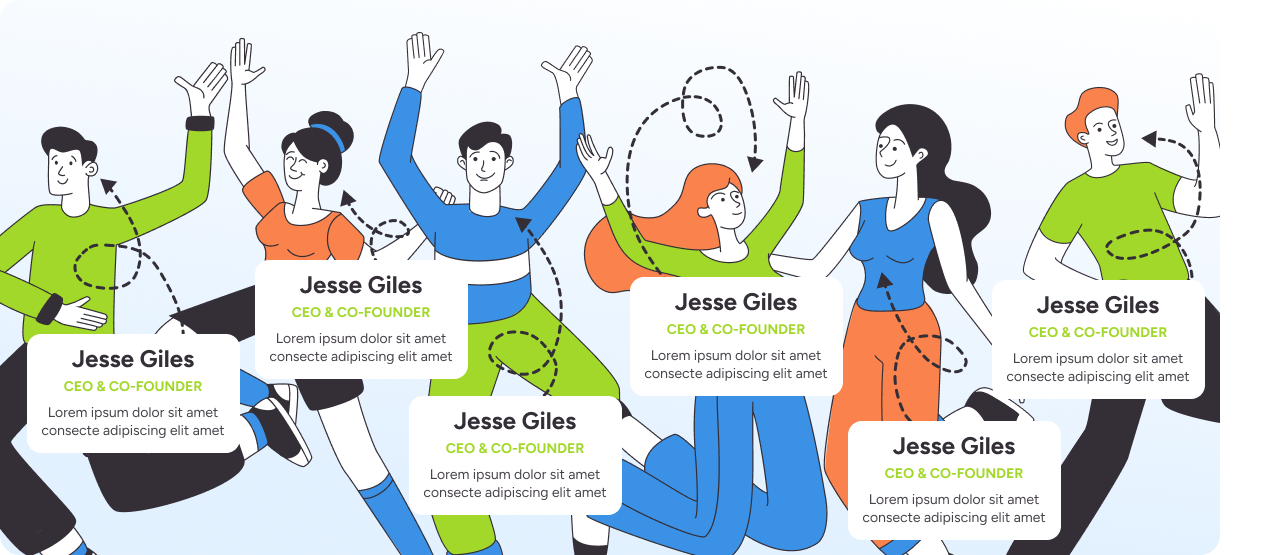
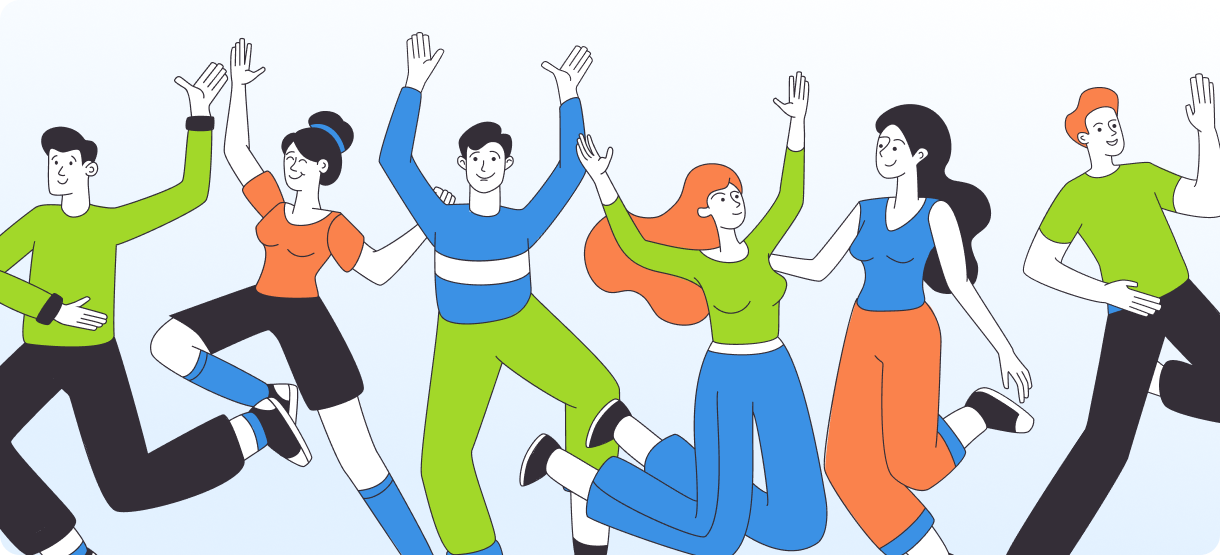
chore: slate class change

diff --git a/components/ui/dropdown-menu.tsx b/components/ui/dropdown-menu.tsx
@@ -27,7 +27,7 @@ const DropdownMenuSubTrigger = React.forwardRef<
   <DropdownMenuPrimitive.SubTrigger
     ref={ref}
     className={cn(
-      'flex cursor-default select-none items-center rounded-sm px-2 py-1.5 text-sm outline-none focus:bg-slate-100 data-[state=open]:bg-slate-100 dark:focus:bg-slate-800 dark:data-[state=open]:bg-slate-800',
+      'flex cursor-default select-none items-center rounded-sm px-2 py-1.5 text-sm outline-none focus:bg-slate-100 data-[state=open]:bg-slate-100 dark:focus:bg-dark dark:data-[state=open]:bg-dark',
       inset && 'pl-8',
       className
     )}
@@ -83,7 +83,7 @@ const DropdownMenuItem = React.forwardRef<
   <DropdownMenuPrimitive.Item
     ref={ref}
     className={cn(
-      'relative flex cursor-default select-none items-center rounded-sm px-2 py-1.5 text-sm outline-none transition-colors focus:bg-slate-100 focus:text-slate-900 data-[disabled]:pointer-events-none data-[disabled]:opacity-50 dark:focus:bg-slate-800 dark:focus:text-slate-50',
+      'relative flex cursor-default select-none items-center rounded-sm px-2 py-1.5 text-sm outline-none transition-colors focus:bg-slate-100 focus:text-dark data-[disabled]:pointer-events-none data-[disabled]:opacity-50 dark:focus:bg-dark dark:focus:text-slate-50',
       inset && 'pl-8',
       className
     )}
@@ -99,7 +99,7 @@ const DropdownMenuCheckboxItem = React.forwardRef<
   <DropdownMenuPrimitive.CheckboxItem
     ref={ref}
     className={cn(
-      'relative flex cursor-default select-none items-center rounded-sm py-1.5 pl-8 pr-2 text-sm outline-none transition-colors focus:bg-slate-100 focus:text-slate-900 data-[disabled]:pointer-events-none data-[disabled]:opacity-50 dark:focus:bg-slate-800 dark:focus:text-slate-50',
+      'relative flex cursor-default select-none items-center rounded-sm py-1.5 pl-8 pr-2 text-sm outline-none transition-colors focus:bg-slate-100 focus:text-dark data-[disabled]:pointer-events-none data-[disabled]:opacity-50 dark:focus:bg-dark dark:focus:text-slate-50',
       className
     )}
     checked={checked}
@@ -123,7 +123,7 @@ const DropdownMenuRadioItem = React.forwardRef<
   <DropdownMenuPrimitive.RadioItem
     ref={ref}
     className={cn(
-      'relative flex cursor-default select-none items-center rounded-sm py-1.5 pl-8 pr-2 text-sm outline-none transition-colors focus:bg-slate-100 focus:text-slate-900 data-[disabled]:pointer-events-none data-[disabled]:opacity-50 dark:focus:bg-slate-800 dark:focus:text-slate-50',
+      'relative flex cursor-default select-none items-center rounded-sm py-1.5 pl-8 pr-2 text-sm outline-none transition-colors focus:bg-slate-100 focus:text-dark data-[disabled]:pointer-events-none data-[disabled]:opacity-50 dark:focus:bg-dark dark:focus:text-slate-50',
       className
     )}
     {...props}
@@ -162,7 +162,7 @@ const DropdownMenuSeparator = React.forwardRef<
 >(({ className, ...props }, ref) => (
   <DropdownMenuPrimitive.Separator
     ref={ref}
-    className={cn('-mx-1 my-1 h-px bg-slate-100 dark:bg-slate-800', className)}
+    className={cn('-mx-1 my-1 h-px bg-slate-100 dark:bg-dark', className)}
     {...props}
   />
 ))

diff --git a/components/ui/calendar.tsx b/components/ui/calendar.tsx
@@ -36,23 +36,22 @@ function Calendar({
         table: 'w-full border-collapse space-y-1',
         head_row: 'flex',
         head_cell:
-          'text-slate-500 rounded-md w-9 font-normal text-[0.8rem] dark:text-slate-400',
+          'text-gray rounded-md w-9 font-normal text-[0.8rem] dark:text-dark/60',
         row: 'flex w-full mt-2',
-        cell: 'h-9 w-9 text-center text-sm p-0 relative [&:has([aria-selected].day-range-end)]:rounded-r-md [&:has([aria-selected].day-outside)]:bg-slate-100/50 [&:has([aria-selected])]:bg-slate-100 first:[&:has([aria-selected])]:rounded-l-md last:[&:has([aria-selected])]:rounded-r-md focus-within:relative focus-within:z-20 dark:[&:has([aria-selected].day-outside)]:bg-slate-800/50 dark:[&:has([aria-selected])]:bg-slate-800',
+        cell: 'h-9 w-9 text-center text-sm p-0 relative [&:has([aria-selected].day-range-end)]:rounded-r-md [&:has([aria-selected].day-outside)]:bg-slate-100/50 [&:has([aria-selected])]:bg-slate-100 first:[&:has([aria-selected])]:rounded-l-md last:[&:has([aria-selected])]:rounded-r-md focus-within:relative focus-within:z-20 dark:[&:has([aria-selected].day-outside)]:bg-dark/50 dark:[&:has([aria-selected])]:bg-dark',
         day: cn(
           buttonVariants({ variant: 'ghost' }),
           'h-9 w-9 p-0 font-normal aria-selected:opacity-100'
         ),
         day_range_end: 'day-range-end',
         day_selected:
-          'bg-slate-900 text-slate-50 hover:bg-slate-900 hover:text-slate-50 focus:bg-slate-900 focus:text-slate-50 dark:bg-slate-50 dark:text-slate-900 dark:hover:bg-slate-50 dark:hover:text-slate-900 dark:focus:bg-slate-50 dark:focus:text-slate-900',
-        day_today:
-          'bg-slate-100 text-slate-900 dark:bg-slate-800 dark:text-slate-50',
+          'bg-dark text-slate-50 hover:bg-dark hover:text-slate-50 focus:bg-dark focus:text-slate-50 dark:bg-slate-50 dark:text-dark dark:hover:bg-slate-50 dark:hover:text-dark dark:focus:bg-slate-50 dark:focus:text-dark',
+        day_today: 'bg-slate-100 text-dark dark:bg-dark dark:text-slate-50',
         day_outside:
-          'day-outside text-slate-500 opacity-50 aria-selected:bg-slate-100/50 aria-selected:text-slate-500 aria-selected:opacity-30 dark:text-slate-400 dark:aria-selected:bg-slate-800/50 dark:aria-selected:text-slate-400',
-        day_disabled: 'text-slate-500 opacity-50 dark:text-slate-400',
+          'day-outside text-gray opacity-50 aria-selected:bg-slate-100/50 aria-selected:text-gray aria-selected:opacity-30 dark:text-dark/60 dark:aria-selected:bg-dark/50 dark:aria-selected:text-dark/60',
+        day_disabled: 'text-gray opacity-50 dark:text-dark/60',
         day_range_middle:
-          'aria-selected:bg-slate-100 aria-selected:text-slate-900 dark:aria-selected:bg-slate-800 dark:aria-selected:text-slate-50',
+          'aria-selected:bg-slate-100 aria-selected:text-dark dark:aria-selected:bg-dark dark:aria-selected:text-slate-50',
         day_hidden: 'invisible',
         ...classNames
       }}

diff --git a/app/about/page.tsx b/app/about/page.tsx
@@ -49,43 +49,36 @@ export default async function AboutUsPage() {
                 About Us
               </h1>
 
-              <p className="text-dark/60 text-xl mb-4">
+              <p className="text-dark/70 text-lg lg:text-xl mb-4">
                 Remember when the internet was about exploration and
                 self-expression? We sure do. And we’re just as frustrated as you
                 that it has become the playground for predatory marketers,
                 shadowy hackers, and other ne’er-do-wells.
               </p>
 
-              <p className="text-dark/60 text-xl mb-4">
+              <p className="text-dark/70 text-lg lg:text-xl mb-4">
                 That’s why we’ve made it our mission to make the internet a bit
                 safer for everyone. We can’t build a time machine, but we can
                 keep prying eyes away from what they want most: your personal
                 information.
               </p>
 
-              <p className="text-dark/60 text-xl mb-6">
+              <p className="text-dark/70 text-lg lg:text-xl mb-4">
                 Protecting user privacy, or Pup, is our guiding principle. We
                 long for a day when our service isn’t necessary. But until then,
                 we’re focused on one thing: keeping your personal information
                 personal.
               </p>
+            </div>
 
-              <div className="relative">
-                <Image
-                  src={'/about-us-hero-image-mb.png'}
-                  width={400}
-                  height={350}
-                  alt={'Team image'}
-                  className="lg:hidden"
-                />
-                <Image
-                  src={'/about-us-hero-image.png'}
-                  width={1220}
-                  height={555}
-                  alt={'Team image'}
-                  className="hidden lg:block"
-                />
-              </div>
+            <div className="max-w-6xl px-4">
+              <Image
+                src={'/about-us-hero-image.png'}
+                width={1220}
+                height={555}
+                alt={'Team image'}
+                className="object-contain"
+              />
             </div>
 
             <div className="lg:hidden flex gap-2.5 flex-wrap">

diff --git a/components/modules/Landing/Testimonials/Testimonials.tsx b/components/modules/Landing/Testimonials/Testimonials.tsx
@@ -11,19 +11,19 @@ interface Testimonial {
 export default function Testimonials() {
   const testimonials: Testimonial[] = [
     {
-      image: <Contact className="mx-auto text-slate-900 w-10 h-10" />,
+      image: <Contact className="mx-auto text-dark w-10 h-10" />,
       name: 'Sarah F.',
       text: 'The free analysis was eye-opening, and the process was seamless. I feel much safer now!',
       role: 'Marketing Manager'
     },
     {
-      image: <Contact className="mx-auto text-slate-900 w-10 h-10" />,
+      image: <Contact className="mx-auto text-dark w-10 h-10" />,
       name: 'David K.',
       text: 'Choosing and paying only for the brokers I wanted made it very affordable.',
       role: 'Software Engineer'
     },
     {
-      image: <Contact className="mx-auto text-slate-900 w-10 h-10" />,
+      image: <Contact className="mx-auto text-dark w-10 h-10" />,
       name: 'Michelle T.',
       text: 'The pay-as-you-go model is perfect. Great customer support and effective results!',
       role: 'HR Specialist'
@@ -35,7 +35,7 @@ export default function Testimonials() {
       {/* Section Header */}
       <div className="text-center">
         <h2 className="text-3xl lg:text-4xl font-bold">What Our Users Say</h2>
-        <p className="mt-4 text-lg lg:text-xl text-slate-700">
+        <p className="mt-4 text-lg lg:text-xl text-dark">
           See how our service has helped others protect their personal data.
         </p>
       </div>
@@ -53,7 +53,7 @@ export default function Testimonials() {
             <CardContent className="text-center">
               <p className="text-lg italic">&quot;{testimonial.text}&quot;</p>
               <p className="mt-3 text-base font-bold">- {testimonial.name}</p>
-              <p className="text-sm text-slate-600">{testimonial.role}</p>
+              <p className="text-sm text-dark/80">{testimonial.role}</p>
             </CardContent>
           </Card>
         ))}

diff --git a/components/ui/toast.tsx b/components/ui/toast.tsx
@@ -63,7 +63,7 @@ const ToastAction = React.forwardRef<
   <ToastPrimitives.Action
     ref={ref}
     className={cn(
-      'inline-flex h-8 shrink-0 items-center justify-center rounded-md border border-slate-200 bg-transparent px-3 text-sm font-medium ring-offset-white transition-colors hover:bg-slate-100 focus:outline-none focus:ring-2 focus:ring-slate-950 focus:ring-offset-2 disabled:pointer-events-none disabled:opacity-50 group-[.destructive]:border-slate-100/40 group-[.destructive]:hover:border-red-500/30 group-[.destructive]:hover:bg-red-500 group-[.destructive]:hover:text-slate-50 group-[.destructive]:focus:ring-red-500 dark:border-slate-800 dark:ring-offset-slate-950 dark:hover:bg-slate-800 dark:focus:ring-slate-300 dark:group-[.destructive]:border-slate-800/40 dark:group-[.destructive]:hover:border-red-900/30 dark:group-[.destructive]:hover:bg-red-900 dark:group-[.destructive]:hover:text-slate-50 dark:group-[.destructive]:focus:ring-red-900',
+      'inline-flex h-8 shrink-0 items-center justify-center rounded-md border border-slate-200 bg-transparent px-3 text-sm font-medium ring-offset-white transition-colors hover:bg-slate-100 focus:outline-none focus:ring-2 focus:ring-slate-950 focus:ring-offset-2 disabled:pointer-events-none disabled:opacity-50 group-[.destructive]:border-slate-100/40 group-[.destructive]:hover:border-red-500/30 group-[.destructive]:hover:bg-red-500 group-[.destructive]:hover:text-slate-50 group-[.destructive]:focus:ring-red-500 dark:border-slate-800 dark:ring-offset-slate-950 dark:hover:bg-dark dark:focus:ring-slate-300 dark:group-[.destructive]:border-slate-800/40 dark:group-[.destructive]:hover:border-red-900/30 dark:group-[.destructive]:hover:bg-red-900 dark:group-[.destructive]:hover:text-slate-50 dark:group-[.destructive]:focus:ring-red-900',
       className
     )}
     {...props}

diff --git a/components/ui/navigation-menu.tsx b/components/ui/navigation-menu.tsx
@@ -41,7 +41,7 @@ NavigationMenuList.displayName = NavigationMenuPrimitive.List.displayName
 const NavigationMenuItem = NavigationMenuPrimitive.Item
 
 const navigationMenuTriggerStyle = cva(
-  'group inline-flex h-10 w-max items-center justify-center rounded-md bg-white px-4 py-2 text-sm font-medium transition-colors hover:bg-slate-100 hover:text-slate-900 focus:bg-slate-100 focus:text-slate-900 focus:outline-none disabled:pointer-events-none disabled:opacity-50 data-[active]:bg-slate-100/50 data-[state=open]:bg-slate-100/50 dark:bg-slate-950 dark:hover:bg-slate-800 dark:hover:text-slate-50 dark:focus:bg-slate-800 dark:focus:text-slate-50 dark:data-[active]:bg-slate-800/50 dark:data-[state=open]:bg-slate-800/50'
+  'group inline-flex h-10 w-max items-center justify-center rounded-md bg-white px-4 py-2 text-sm font-medium transition-colors hover:bg-slate-100 hover:text-dark focus:bg-slate-100 focus:text-dark focus:outline-none disabled:pointer-events-none disabled:opacity-50 data-[active]:bg-slate-100/50 data-[state=open]:bg-slate-100/50 dark:bg-slate-950 dark:hover:bg-dark dark:hover:text-slate-50 dark:focus:bg-dark dark:focus:text-slate-50 dark:data-[active]:bg-dark/50 dark:data-[state=open]:bg-dark/50'
 )
 
 const NavigationMenuTrigger = React.forwardRef<
@@ -110,7 +110,7 @@ const NavigationMenuIndicator = React.forwardRef<
     )}
     {...props}
   >
-    <div className="relative top-[60%] h-2 w-2 rotate-45 rounded-tl-sm bg-slate-200 shadow-md dark:bg-slate-800" />
+    <div className="relative top-[60%] h-2 w-2 rotate-45 rounded-tl-sm bg-slate-200 shadow-md dark:bg-dark" />
   </NavigationMenuPrimitive.Indicator>
 ))
 NavigationMenuIndicator.displayName =

diff --git a/components/ui/toggle.tsx b/components/ui/toggle.tsx
@@ -7,13 +7,13 @@ import { cva, type VariantProps } from 'class-variance-authority'
 import { cn } from '@/utils/cn'
 
 const toggleVariants = cva(
-  'inline-flex items-center justify-center rounded-md text-sm font-medium ring-offset-white transition-colors hover:bg-slate-100 hover:text-slate-500 focus-visible:outline-none focus-visible:ring-2 focus-visible:ring-slate-950 focus-visible:ring-offset-2 disabled:pointer-events-none disabled:opacity-50 data-[state=on]:bg-slate-100 data-[state=on]:text-slate-900 dark:ring-offset-slate-950 dark:hover:bg-slate-800 dark:hover:text-slate-400 dark:focus-visible:ring-slate-300 dark:data-[state=on]:bg-slate-800 dark:data-[state=on]:text-slate-50',
+  'inline-flex items-center justify-center rounded-md text-sm font-medium ring-offset-white transition-colors hover:bg-slate-100 hover:text-gray focus-visible:outline-none focus-visible:ring-2 focus-visible:ring-slate-950 focus-visible:ring-offset-2 disabled:pointer-events-none disabled:opacity-50 data-[state=on]:bg-slate-100 data-[state=on]:text-dark dark:ring-offset-slate-950 dark:hover:bg-dark dark:hover:text-dark/60 dark:focus-visible:ring-slate-300 dark:data-[state=on]:bg-dark dark:data-[state=on]:text-slate-50',
   {
     variants: {
       variant: {
         default: 'bg-transparent',
         outline:
-          'border border-slate-200 bg-transparent hover:bg-slate-100 hover:text-slate-900 dark:border-slate-800 dark:hover:bg-slate-800 dark:hover:text-slate-50'
+          'border border-slate-200 bg-transparent hover:bg-slate-100 hover:text-dark dark:border-slate-800 dark:hover:bg-dark dark:hover:text-slate-50'
       },
       size: {
         default: 'h-10 px-3',

diff --git a/components/modules/Testimonials/Testimonials.tsx b/components/modules/Testimonials/Testimonials.tsx
@@ -4,19 +4,19 @@ import { Contact } from 'lucide-react'
 export default function Testimonials() {
   const cards = [
     {
-      image: <Contact className="mx-auto text-slate-900 w-auto h-10" />,
+      image: <Contact className="mx-auto text-dark w-auto h-10" />,
       name: 'Sarah F.',
       text: 'The free analysis was eye-opening, and the process was seamless. I feel much safer now!',
       role: 'Marketing Manager'
     },
     {
-      image: <Contact className="mx-auto text-slate-900 w-auto h-10" />,
+      image: <Contact className="mx-auto text-dark w-auto h-10" />,
       name: 'David K.',
       text: 'Choosing and paying only for the brokers I wanted made it very affordable.',
       role: 'Software Engineer'
     },
     {
-      image: <Contact className="mx-auto text-slate-900 w-auto h-10" />,
+      image: <Contact className="mx-auto text-dark w-auto h-10" />,
       name: 'Michelle T.',
       text: 'The pay-as-you-go model is perfect. Great customer support and effective results!',
       role: 'HR Specialist'
@@ -43,7 +43,7 @@ export default function Testimonials() {
               <p className="mt-3 text-base font-bold text-center">
                 - {card.name}
               </p>
-              <p className="text-sm text-slate-600 text-center">{card.role}</p>
+              <p className="text-sm text-dark/80 text-center">{card.role}</p>
             </CardContent>
           </Card>
         ))}

diff --git a/components/ui/table.tsx b/components/ui/table.tsx
@@ -43,7 +43,7 @@ const TableFooter = React.forwardRef<
   <tfoot
     ref={ref}
     className={cn(
-      'border-t bg-slate-100/50 font-medium [&>tr]:last:border-b-0 dark:bg-slate-800/50',
+      'border-t bg-slate-100/50 font-medium [&>tr]:last:border-b-0 dark:bg-dark/50',
       className
     )}
     {...props}
@@ -58,7 +58,7 @@ const TableRow = React.forwardRef<
   <tr
     ref={ref}
     className={cn(
-      'border-b transition-colors hover:bg-slate-100/50 data-[state=selected]:bg-slate-100 dark:hover:bg-slate-800/50 dark:data-[state=selected]:bg-slate-800',
+      'border-b transition-colors hover:bg-slate-100/50 data-[state=selected]:bg-slate-100 dark:hover:bg-dark/50 dark:data-[state=selected]:bg-dark',
       className
     )}
     {...props}
@@ -73,7 +73,7 @@ const TableHead = React.forwardRef<
   <th
     ref={ref}
     className={cn(
-      'h-12 px-4 text-left align-middle font-medium text-slate-500 [&:has([role=checkbox])]:pr-0 dark:text-slate-400',
+      'h-12 px-4 text-left align-middle font-medium text-gray [&:has([role=checkbox])]:pr-0 dark:text-dark/60',
       className
     )}
     {...props}
@@ -99,7 +99,7 @@ const TableCaption = React.forwardRef<
 >(({ className, ...props }, ref) => (
   <caption
     ref={ref}
-    className={cn('mt-4 text-sm text-slate-500 dark:text-slate-400', className)}
+    className={cn('mt-4 text-sm text-gray dark:text-dark/60', className)}
     {...props}
   />
 ))

diff --git a/components/ui/dialog.tsx b/components/ui/dialog.tsx
@@ -44,7 +44,7 @@ const DialogContent = React.forwardRef<
       {...props}
     >
       {children}
-      <DialogPrimitive.Close className="absolute right-4 top-4 rounded-sm opacity-70 ring-offset-white transition-opacity hover:opacity-100 focus:outline-none focus:ring-2 focus:ring-slate-950 focus:ring-offset-2 disabled:pointer-events-none data-[state=open]:bg-slate-100 data-[state=open]:text-slate-500 dark:ring-offset-slate-950 dark:focus:ring-slate-300 dark:data-[state=open]:bg-slate-800 dark:data-[state=open]:text-slate-400">
+      <DialogPrimitive.Close className="absolute right-4 top-4 rounded-sm opacity-70 ring-offset-white transition-opacity hover:opacity-100 focus:outline-none focus:ring-2 focus:ring-slate-950 focus:ring-offset-2 disabled:pointer-events-none data-[state=open]:bg-slate-100 data-[state=open]:text-gray dark:ring-offset-slate-950 dark:focus:ring-slate-300 dark:data-[state=open]:bg-dark dark:data-[state=open]:text-dark/60">
         <X className="h-4 w-4" />
         <span className="sr-only">Close</span>
       </DialogPrimitive.Close>
@@ -102,7 +102,7 @@ const DialogDescription = React.forwardRef<
 >(({ className, ...props }, ref) => (
   <DialogPrimitive.Description
     ref={ref}
-    className={cn('text-sm text-slate-500 dark:text-slate-400', className)}
+    className={cn('text-sm text-gray dark:text-dark/60', className)}
     {...props}
   />
 ))

diff --git a/components/ui/input.tsx b/components/ui/input.tsx
@@ -10,7 +10,7 @@ const Input = React.forwardRef<HTMLInputElement, InputProps>(
       <input
         type={type}
         className={cn(
-          'text-dark flex w-full rounded-full border border-white bg-white px-10 py-4 text-lg font-normal leading-relaxed ring-offset-white file:border-0 file:bg-transparent file:text-sm file:font-medium file:text-slate-950 placeholder:text-white/60 placeholder:font-light focus-visible:outline-none focus-visible:ring-offset-2 disabled:cursor-not-allowed disabled:opacity-50 dark:border-slate-800 dark:bg-slate-950 dark:ring-offset-slate-950 dark:file:text-slate-50 dark:placeholder:text-slate-400 dark:focus-visible:ring-slate-300',
+          'text-dark flex w-full rounded-full border border-white bg-white px-10 py-4 text-lg font-normal leading-relaxed ring-offset-white file:border-0 file:bg-transparent file:text-sm file:font-medium file:text-slate-950 placeholder:text-white/60 placeholder:font-light focus-visible:outline-none focus-visible:ring-offset-2 disabled:cursor-not-allowed disabled:opacity-50 dark:border-slate-800 dark:bg-slate-950 dark:ring-offset-slate-950 dark:file:text-slate-50 dark:placeholder:text-dark/60 dark:focus-visible:ring-slate-300',
           className
         )}
         ref={ref}

diff --git a/components/ui/textarea.tsx b/components/ui/textarea.tsx
@@ -9,7 +9,7 @@ const Textarea = React.forwardRef<HTMLTextAreaElement, TextareaProps>(
     return (
       <textarea
         className={cn(
-          'text-dark flex min-h-[120px] w-full rounded-[20px] border border-slate-200 bg-white px-9 py-6 text-lg font-normal ring-offset-white placeholder:text-slate-500 focus-visible:outline-none focus-visible:ring-2 focus-visible:ring-slate-950 focus-visible:ring-offset-2 disabled:cursor-not-allowed disabled:opacity-50 dark:border-slate-800 dark:bg-slate-950 dark:ring-offset-slate-950 dark:placeholder:text-slate-400 dark:focus-visible:ring-slate-300',
+          'text-dark flex min-h-[120px] w-full rounded-[20px] border border-slate-200 bg-white px-9 py-6 text-lg font-normal ring-offset-white placeholder:text-gray focus-visible:outline-none focus-visible:ring-2 focus-visible:ring-slate-950 focus-visible:ring-offset-2 disabled:cursor-not-allowed disabled:opacity-50 dark:border-slate-800 dark:bg-slate-950 dark:ring-offset-slate-950 dark:placeholder:text-dark/60 dark:focus-visible:ring-slate-300',
           className
         )}
         ref={ref}
